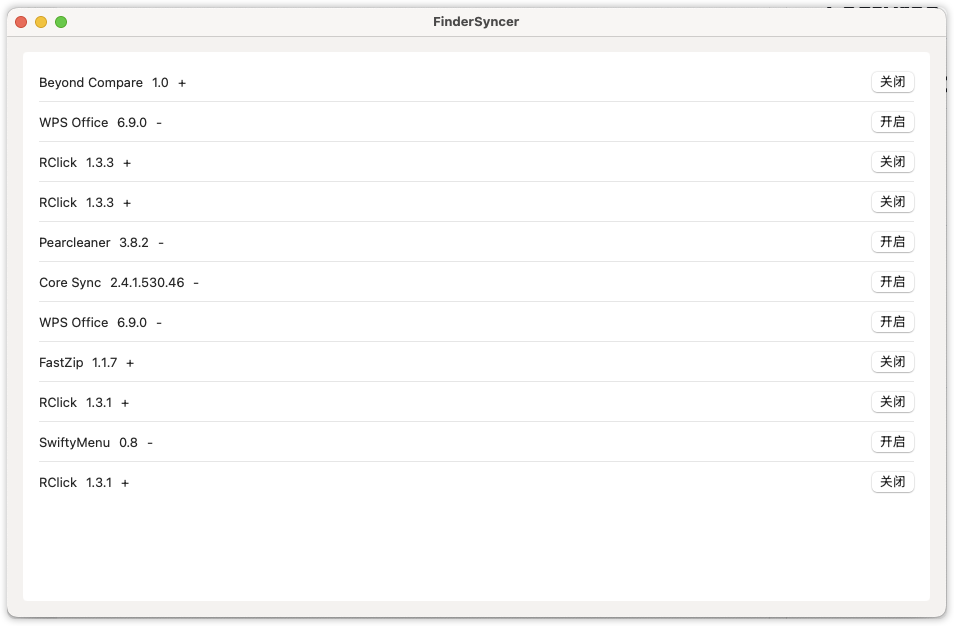
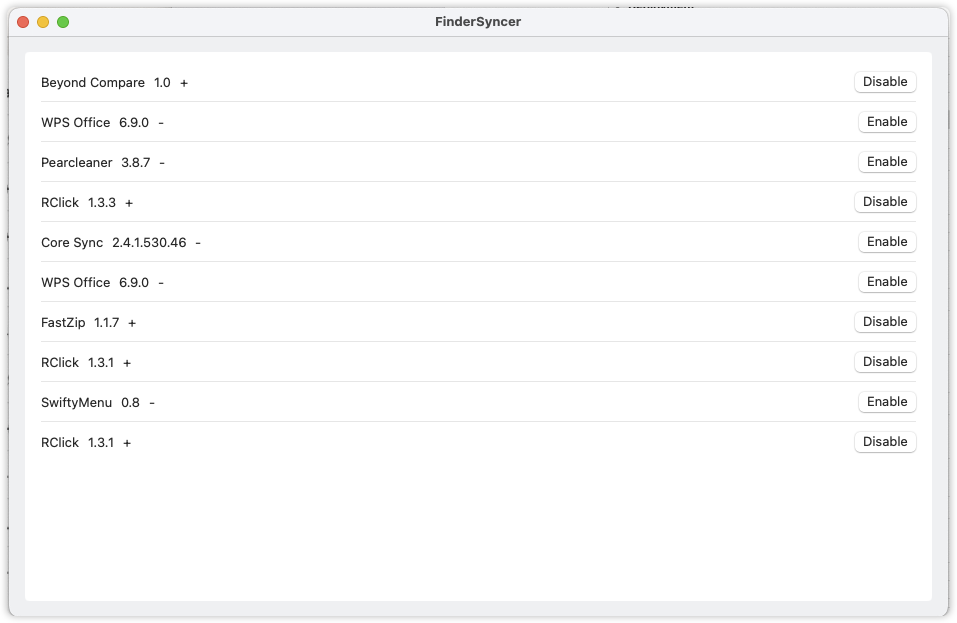
chore:support macOS 14.5

diff --git a/FinderSyncer/ContentView.swift b/FinderSyncer/ContentView.swift
@@ -22,7 +22,7 @@ struct ContentView: View {
 
                     Text(ext.status)
                     Spacer()
-                    Button(ext.status == "+" ? "关闭" : "开启") {
+                    Button(ext.status == "+" ? "Disable" : "Enable") {
                         toggleExt(ext)
                     }
                 }.padding([.vertical], 6)
